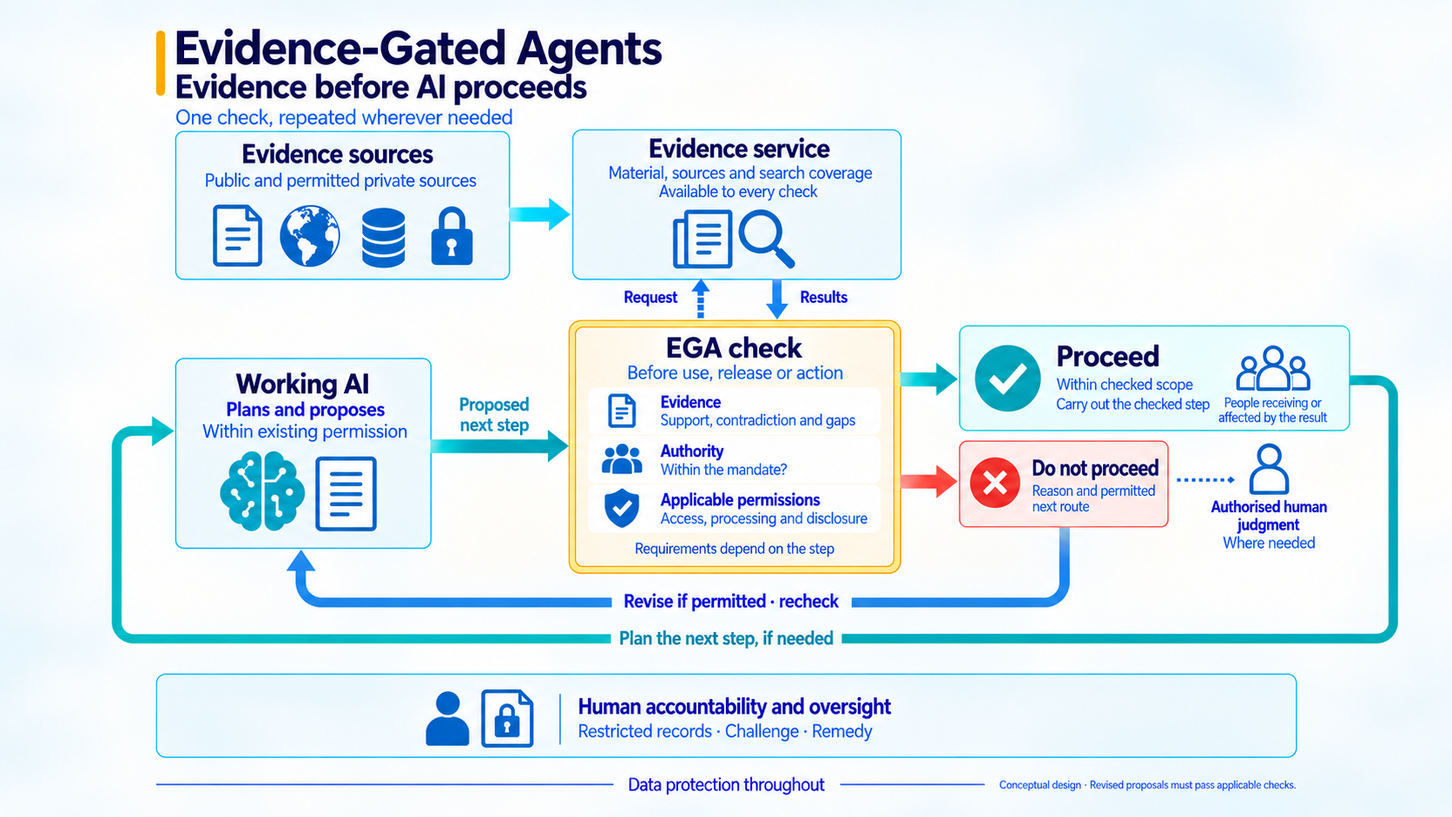
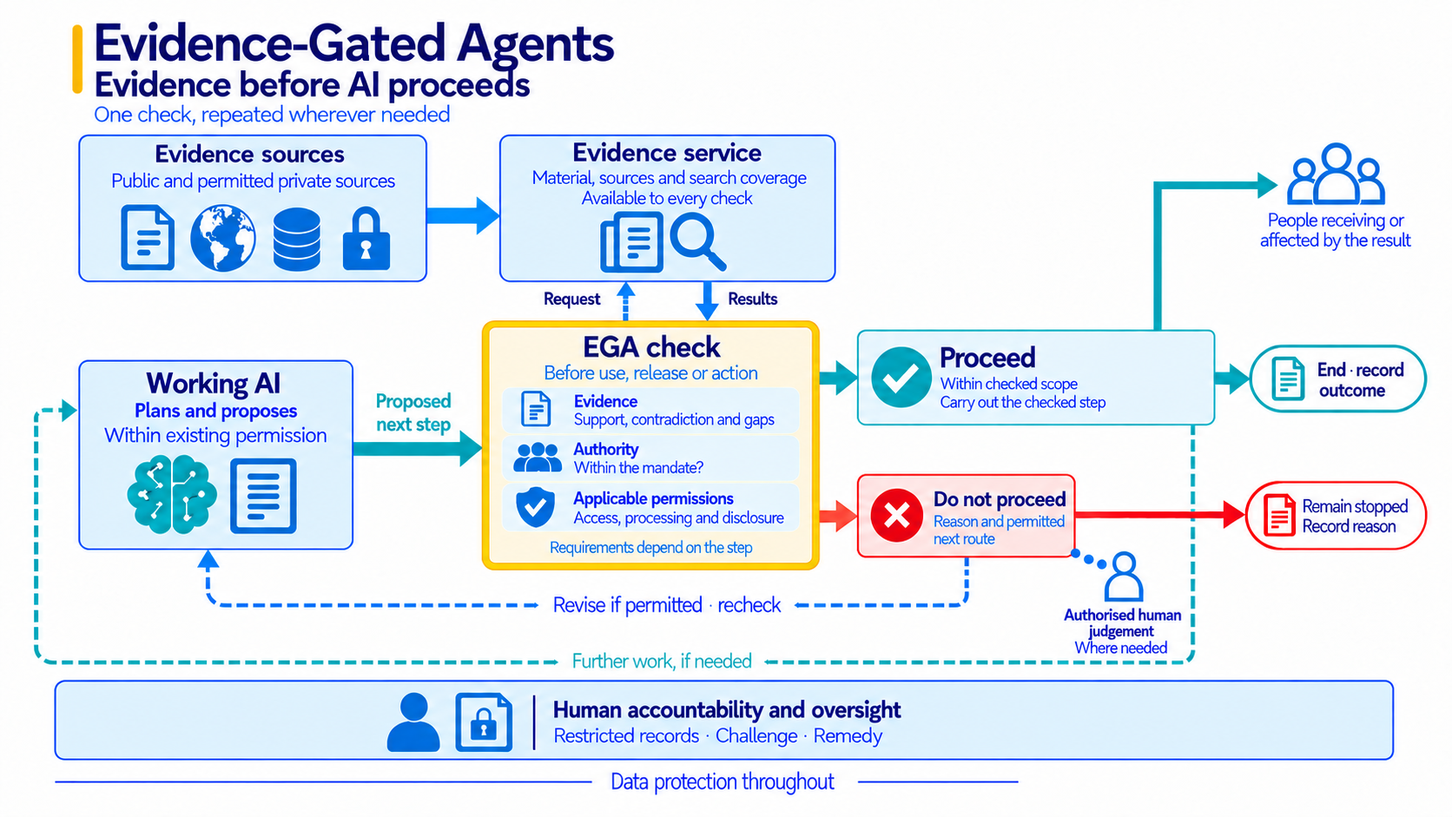
docs(ega): clarify exits and publish coordinated diagrams

Changed region(s): [[0.0311, 0.0308, 0.9952, 0.9862]]

diff --git a/docs/Assurance/Concepts/evidence-gated-agents.md b/docs/Assurance/Concepts/evidence-gated-agents.md
@@ -25,15 +25,15 @@ The selected prototype routes consequential decisions and instructions into evid
 
 **The cooperation opportunity:** bring a workflow, contribute engineering or evaluation expertise, or support the integration and its assessment. [See the milestone and how to contribute](#where-to-contribute).
 
-[![Full EGA design: Working AI prepares within existing permission, passes a before-use check, carries out permitted work and submits a step for a release or action check. Both checks can request evidence. After the checked step, a continuation loop returns to preparation for further work and applicable checks. Refusals lead to Do not proceed, conditional human judgment and permitted revision before renewed checks. People receiving or affected by results, five oversight roles, restricted records and system-wide data protection are shown.](evidence-gated-agents-release-workflow.png)](evidence-gated-agents-release-workflow.png)
+[![Full EGA design: Working AI prepares within existing permission; two example boundary checks can request evidence. Proceed leads to the checked step and an outcome record. Do not proceed leads to remaining stopped with a reason recorded. Separate dashed routes optionally return to Working AI for further work or permitted revision and rechecking. Human judgment is conditional; affected people, independent custody of decision records and five oversight roles remain visible.](evidence-gated-agents-release-workflow.png)](evidence-gated-agents-release-workflow.png)
 
-*Wider EGA design. The same EGA check pattern recurs for new inputs, processors, recipients and effects. Working AI plans and prepares within existing permission before the first illustrated check. Every check may request evidence, including evidence of permission and authority. Proceed and Do not proceed describe the gate decision. After the checked step, Working AI may plan further work within current permission; new protected transitions require their applicable checks. If permitted, Working AI revises and submits a new proposal for applicable checks; the rejected step stays withheld and closed attempts stay closed. Human judgement is requested where needed, within the person’s authority. [Lifecycle governance](../../Published/when-should-runtime-ai-governance-interrupt.md#the-when-has-two-clocks) surrounds this path. The first integration remains recommendation release only; integration, confidential-source handling and wider governance remain to be implemented and evaluated.*
+*Wider EGA design. The same EGA check pattern recurs for new inputs, processors, recipients and effects. Working AI plans and prepares within existing permission before the first illustrated check. Every check may request evidence, including evidence of permission and authority. Proceed and Do not proceed describe the gate decision. Solid exits end with an outcome record or a stopped step and its recorded reason. Dashed returns are optional: further work faces applicable checks, and permitted revision starts a new attempt. The rejected step stays withheld and closed attempts stay closed. Human judgement is requested where needed, within the person’s authority. [Lifecycle governance](../../Published/when-should-runtime-ai-governance-interrupt.md#the-when-has-two-clocks) surrounds this path. The first integration remains recommendation release only; integration, confidential-source handling and wider governance remain to be implemented and evaluated.*
 
 ## How the design works
 
-[![Simplified EGA design: Working AI proposes a step within existing permission. An EGA check can request evidence and applies evidence, authority and permission requirements. Proceed stays within checked scope; Do not proceed gives a reason and permitted route. A continuation loop returns to Working AI after the checked step to plan further work; a separate revision loop permits correction and renewed checks. Human judgment, people receiving or affected by results, restricted records and oversight are visible.](../../Published/evidence-gated-agents-before-we-rely.png)](../../Published/evidence-gated-agents-before-we-rely.png)
+[![Simplified EGA design: Working AI proposes a step; an EGA check applies evidence, authority and permission requirements. Proceed leads to the checked step and an outcome record; Do not proceed leads to remaining stopped with the reason recorded. Dashed returns optionally allow further work or permitted revision and rechecking. Crossing lines do not join. Human judgment, affected people and oversight remain visible.](../../Published/evidence-gated-agents-before-we-rely.png)](../../Published/evidence-gated-agents-before-we-rely.png)
 
-*Simplified view of the same recurring check. After the checked step, Working AI may plan the next step; the continuation loop does not authorise a retry when an outcome is uncertain. Requirements depend on the proposed step; permitted revision returns a changed proposal through applicable checks in a new attempt. The first integration targets consequential recommendation release, without executing resulting actions. Integration and confidential-source handling remain to be built.*
+*Simplified view of the same recurring check. Solid paths lead to an outcome record after the checked step, or to remaining stopped with the reason recorded. Dashed returns are optional: further work if needed, or permitted revision followed by applicable checks. Crossing lines do not join. Ending the workflow does not cancel required reconciliation of an uncertain examination, commitment or effect. The first integration targets consequential recommendation release, without executing resulting actions. Integration and confidential-source handling remain to be built.*
 
 The output being gated is a **claim, decision or action instruction**. Releasing an instruction makes it available to an authorised recipient; it does not authorise or execute the resulting action. The first prototype retains the consequential-decision/instruction trigger described above.
 
@@ -51,7 +51,7 @@ Routine checks run automatically within agreed limits. Human judgment is called 
 
 Data protection applies throughout the system, including every outgoing request, search result, released output and record view. Permission to consult a confidential record does not automatically permit sending it to an external AI service or revealing it in an answer. **Access, processing and disclosure are separate permissions.** The [privacy commitments](../Framework/charter-commitments.md) call for using only the information needed for the permitted purpose. Decision records also need limited content, access and retention; accountability must not become an unrestricted copy of confidential evidence.
 
-The [governance design](../../Published/when-vs-who-ai-governance.md) separates rulemaking, operation, record custody, independent review and remedy, so the operator does not control the whole chain. These are continuing responsibilities, not five approvals for every answer. A custodian preserves a sealed record without unilateral access; binding remedies require legal or contractual authority. Records support scrutiny, but do not themselves establish truth, legitimate authority or effective remedy.
+The [governance design](../../Published/when-vs-who-ai-governance.md) separates rulemaking, operation, record custody, independent review and remedy, so the operator does not control the whole chain. These are continuing responsibilities, not five approvals for every answer. The record keeper provides independent custody of decision records, preserving sealed records without unilateral access; binding remedies require legal or contractual authority. Records support scrutiny, but do not themselves establish truth, legitimate authority or effective remedy.
 
 ## The next development milestone
 
@@ -129,6 +129,7 @@ flowchart TD
  A -->|Assessment / deadline| C(["A · Continue to release / action checks"]):::link
  A -->|Acceptance unknown| U["R1 · Withhold; reconcile examination"]:::uncertain
 
+ S --> END(["Remain stopped<br/>Reason recorded"]):::stop
  S -.->|If correction permitted| REV(["REV · Permitted correction"]):::link
 
 classDef work fill:#edf4fc,stroke:#6d8fb8,color:#17344c,stroke-width:1.4px
@@ -160,8 +161,11 @@ flowchart TD
  C -->|Bound| E["Validate one-use binding<br/>Attempt exact release OR action"]:::work
  E -->|Outcome known| O["Record actual outcome<br/>Success, no effect or known failure"]:::result
  E -->|Outcome unknown| V["R3 · Reconcile effect"]:::uncertain
- O --> R(["Inspect · Challenge · Correct<br/>Review ongoing reliance"]):::result
+ O --> R["Retain record and review routes<br/>Inspect · Challenge · Correct"]:::result
+ R --> DONE(["End this workflow"]):::result
+ R -.->|Further work, if needed| NEXT(["Return to permitted preparation<br/>Applicable checks for each next step"]):::link
 
+ S --> END(["Remain stopped<br/>Reason recorded"]):::stop
  S -.->|If correction permitted| REV(["REV · Permitted correction"]):::link
 
 classDef work fill:#edf4fc,stroke:#6d8fb8,color:#17344c,stroke-width:1.4px
@@ -177,6 +181,8 @@ classDef link fill:#fff,stroke:#54768e,color:#24465e,stroke-width:2px
 
 
 **Do not proceed:** withhold the proposed step and record a scoped reason and permitted next route. Where correction is permitted, Working AI may receive a permitted explanation and prepare a corrected or narrower proposal within its current permission. The [REV correction route](#permitted-correction) returns the changed proposal through all applicable checks as a new attempt. An eligible held issue can receive authorised human judgment where useful. A closed attempt stays closed; neither revision, human judgment nor an analytical verdict bypasses required evidence or authority.
+
+**Finishing and continuing:** after the checked step, record its actual outcome. Then end this workflow or plan further work within current permission. Each new protected transition faces its applicable checks. Remaining stopped is also a valid endpoint; revision and human judgment are optional routes, not required next steps. Neither endpoint removes outstanding reconciliation or ongoing inspection, challenge and correction responsibilities.
 
 **Commitment and outcome are different.** Authority is freshly checked at the commitment boundary. The executor then validates the exact one-use binding; this is not a promise of another authority adjudication after commitment. Record confirmed no effect or known failure as such, preserving any commitment history. R1–R3 use the distinct recovery routes below.
 
@@ -216,7 +222,10 @@ flowchart TD
  O -->|Yes| D["Attempt ordinary delivery<br/>Minimal routing record"]:::work
  D -->|Outcome unknown| R["R3 · Reconcile delivery"]:::uncertain
  D -->|Outcome known| K["Record outcome as appropriate<br/>No consequential receipt"]:::result
+ K --> DONE(["End this workflow"]):::result
+ K -.->|Further work, if needed| NEXT(["New request within current permission<br/>Return to admission and routing"]):::link
 
+ S --> END(["Remain stopped<br/>Reason recorded"]):::stop
  S -.->|If correction permitted| REV(["REV · Permitted correction"]):::link
 
 classDef work fill:#edf4fc,stroke:#6d8fb8,color:#17344c,stroke-width:1.4px
@@ -251,6 +260,7 @@ flowchart TD
  G -->|No / error / incomplete at deadline| S
  G -->|Yes| C(["C · Continue to release control"]):::link
 
+ S --> END(["Remain stopped<br/>Reason recorded"]):::stop
  S -.->|If correction permitted| REV(["REV · Permitted correction"]):::link
 
 classDef work fill:#edf4fc,stroke:#6d8fb8,color:#17344c,stroke-width:1.4px
@@ -284,8 +294,11 @@ flowchart TD
  F -->|Bound| E["Validate one-use binding<br/>Attempt exact recipient-view release"]:::work
  E -->|Outcome known| O["Record release, no effect<br/>or known failure"]:::result
  E -->|Outcome unknown| V["R3 · Reconcile delivery"]:::uncertain
- O --> R(["Restricted receipt<br/>Inspect · Challenge · Correct"]):::result
+ O --> R["Restricted receipt<br/>Inspect · Challenge · Correct"]:::result
+ R --> DONE(["End this workflow"]):::result
+ R -.->|Further work, if needed| NEXT(["New request within current permission<br/>Return to admission and routing"]):::link
 
+ S --> END(["Remain stopped<br/>Reason recorded"]):::stop
  S -.->|If correction permitted| REV(["REV · Permitted correction"]):::link
 
 classDef work fill:#edf4fc,stroke:#6d8fb8,color:#17344c,stroke-width:1.4px
@@ -313,7 +326,7 @@ Release means making the checked response available to the intended recipient. I
 <details markdown="1" class="ega-design" id="permitted-correction">
 <summary>Permitted correction — REV: revise and check a new proposal</summary>
 
-REV is an optional route from a refusal whose status is known. The rejected step remains withheld. It does not authorise the correction work or any additional access, processing or disclosure.
+REV is an optional route from a refusal whose status is known. The workflow may instead end with the step withheld and the scoped reason recorded. REV does not authorise the correction work or any additional access, processing or disclosure.
 
 <div class="ega-flow" role="region" aria-label="Permitted correction and a new checked attempt" tabindex="0" markdown="1">
 

diff --git a/docs/Published/evidence-gated-agents-before-we-rely.md b/docs/Published/evidence-gated-agents-before-we-rely.md
@@ -17,7 +17,7 @@ https://robertschaub.github.io/our-ai-charter/Assurance/Concepts/evidence-gated-
 
 𝘍𝘶𝘭𝘭 𝘢𝘳𝘵𝘪𝘤𝘭𝘦 𝘣𝘦𝘭𝘰𝘸 ↓
 ***
-[![Simplified EGA design: Working AI proposes a step within existing permission. An EGA check can request evidence and applies evidence, authority and permission requirements. Proceed stays within checked scope; Do not proceed gives a reason and permitted route. A continuation loop returns to Working AI after the checked step to plan further work; a separate revision loop permits correction and renewed checks. Human judgment, people receiving or affected by results, restricted records and oversight are visible.](evidence-gated-agents-before-we-rely.png)](evidence-gated-agents-before-we-rely.png)
+[![Simplified EGA design: Working AI proposes a step; an EGA check applies evidence, authority and permission requirements. Proceed leads to the checked step and an outcome record; Do not proceed leads to remaining stopped with the reason recorded. Dashed returns optionally allow further work or permitted revision and rechecking. Crossing lines do not join. Human judgment, affected people and oversight remain visible.](evidence-gated-agents-before-we-rely.png)](evidence-gated-agents-before-we-rely.png)
 ***
 
 # Evidence-Gated Agents: Before We Rely on an AI Recommendation
@@ -36,13 +36,13 @@ Any EGA check can request evidence, including evidence of permission, authority 
 
 For the supplier example, missing evidence of the required guarantee means the recommendation does not proceed. A narrower recommendation needs a new check. A favourable analytical verdict alone cannot replace authority or permission to disclose the content.
 
-**Proceed** permits the checked step within its scope. After that step, Working AI may plan further work within current permission; each new protected transition faces its applicable checks. **Do not proceed** records the reason and next permitted route. Where permitted, Working AI receives feedback and prepares a corrected or narrower proposal within its current permission. The revised proposal must pass all applicable checks in a new attempt; the rejected step stays blocked and closed attempts stay closed. Uncertain work or delivery must be reconciled before any next step that could duplicate it. Human judgement is sought where an authorised person can resolve a specific issue and the stakes justify interruption. It cannot supply missing evidence or reopen a stopped attempt.
+**Proceed** permits the checked step within its scope. After that step, record the actual outcome. Then end the workflow or optionally plan further work within current permission; each new protected transition faces its applicable checks. **Do not proceed** withholds the step and records the reason. The workflow may end there; revision is an optional permitted route. Where permitted, Working AI receives feedback and prepares a corrected or narrower proposal within its current permission. The revised proposal must pass all applicable checks in a new attempt; the rejected step stays blocked and closed attempts stay closed. Ending the workflow does not cancel required reconciliation of an uncertain examination, commitment or delivery; reconcile before any next step that could duplicate work or effects. Human judgement is sought where an authorised person can resolve a specific issue and the stakes justify interruption. It cannot supply missing evidence or reopen a stopped attempt.
 
-The evidence-service interface can support public sources and specialised company/private sources. Access, processing and disclosure are separate permissions. Data protection applies throughout the system, including outgoing requests, released content and records. Decision-record access is restricted; separate oversight responsibilities support inspection, challenge and correction.
+The evidence-service interface can support public sources and specialised company/private sources. Access, processing and disclosure are separate permissions. Data protection applies throughout the system, including outgoing requests, released content and records. The record keeper provides independent custody of decision records, with restricted access. Separate oversight responsibilities support inspection, challenge and correction.
 
-[![Full EGA design: Working AI prepares within existing permission, passes a before-use check, carries out permitted work and submits a step for a release or action check. Both checks can request evidence. After the checked step, a continuation loop returns to preparation for further work and applicable checks. Refusals lead to Do not proceed, conditional human judgment and permitted revision before renewed checks. People receiving or affected by results, five oversight roles, restricted records and system-wide data protection are shown.](../Assurance/Concepts/evidence-gated-agents-release-workflow.png)](../Assurance/Concepts/evidence-gated-agents-release-workflow.png)
+[![Full EGA design: Working AI prepares within existing permission; two example boundary checks can request evidence. Proceed leads to the checked step and an outcome record. Do not proceed leads to remaining stopped with a reason recorded. Separate dashed routes optionally return to Working AI for further work or permitted revision and rechecking. Human judgment is conditional; affected people, independent custody of decision records and five oversight roles remain visible.](../Assurance/Concepts/evidence-gated-agents-release-workflow.png)](../Assurance/Concepts/evidence-gated-agents-release-workflow.png)
 
-*The full design shows the same EGA check at two example boundaries. After the checked step, Working AI may plan the next step within current permission; new protected transitions require their applicable checks. If revision is permitted, Working AI prepares a changed proposal that must undergo the applicable checks in a new attempt. People receiving or affected by the result remain visible alongside human judgment and oversight. The first integration remains recommendation release only; integration and confidential-source handling remain to be built.*
+*The full design shows the same EGA check at two example boundaries. Solid paths end with an outcome record after the checked step, or with the step stopped and the reason recorded. Dashed returns show optional further work or permitted revision; new or revised proposals face applicable checks. Crossing lines do not join. People receiving or affected by the result remain visible alongside human judgment and oversight. The first integration remains recommendation release only; integration and confidential-source handling remain to be built.*
 
 ## Two foundations, one concrete milestone
 

diff --git a/README.md b/README.md
@@ -65,7 +65,7 @@ Start with the [Trust & Accountability overview](docs/Assurance/index.md): draft
 - **[Grounding-Faithfulness & Contestability](docs/Assurance/Protocol/grounding-faithfulness-and-contestability.md)** — *DRAFT v0.3*. First evaluation module; start with the [method summary](docs/Assurance/Protocol/one-pager.md).
 - **[Future certification: independence and oversight](docs/Assurance/Framework/certification-model.md)** — *DRAFT*. Future separation-of-powers assurance model, including the boundary between system/release assurance and human competence; not an existing scheme or personnel credential.
 - **[From evaluation methods to institutional requirements](docs/Assurance/Concepts/evaluation-to-institutional-requirements.md)** — *DRAFT*. One-page crosswalk from scoped evaluation methods to institutional duties, evidence, remediation, and claim limits.
-- **[Evidence-Gated Agents — project overview](docs/Assurance/Concepts/evidence-gated-agents.md)** — *Design and development direction*. Current foundations, the next integration and evaluation milestone, and cooperation opportunities, with recurring EGA checks, evidence for authority and output support, privacy and oversight boundaries, and expandable target/prototype flows with permitted correction, distinct recovery routes and fictional receipt examples.
+- **[Evidence-Gated Agents — project overview](docs/Assurance/Concepts/evidence-gated-agents.md)** — *Design and development direction*. Current foundations, the next integration and evaluation milestone, and cooperation opportunities, with recurring EGA checks, evidence for authority and output support, privacy and oversight boundaries, and expandable target/prototype flows with explicit exits, optional continuation and permitted correction, distinct recovery routes and fictional receipt examples.
 - **[Evidence requirements: what EGA needs to demonstrate](docs/Assurance/Concepts/evidence-requirements-research.md)** — *DRAFT, non-normative*. Research question, prototype boundaries, comparison success rules and public evaluation commitments.
 - **[Charter structure and views](docs/Assurance/Concepts/charter-structure-and-views.md)** · **[User-workflow governance](docs/Assurance/Concepts/user-workflow-governance.md)** · **[Assurance cases](docs/Assurance/Concepts/assurance-cases.md)** · **[Capabilities & Assurance Interface](docs/Assurance/Concepts/charter-structure-and-views.md#capabilities-and-assurance-interface)** — *DRAFT*. Concept notes that map obligations, duties, runtime, reader-facing lenses, the obligation→duty assurance-case prototypes, and the demand-side "check" surface (now part of Charter structure and views).
 - **[Ambient and agentic AI controls](docs/Assurance/Concepts/ambient-agentic-ai-control.md)** · **[Split custody for action records](docs/Assurance/Concepts/split-custody-per-action-records.md)** · **[Representation error and correction](docs/Assurance/Concepts/representation-error-and-correction-routes.md)** — *DRAFT / CONCEPT NOTES*. Proposed control, record-custody, and correction-route designs; none is an operating scheme.

diff --git a/docs/Assurance/Concepts/user-workflow-governance.md b/docs/Assurance/Concepts/user-workflow-governance.md
@@ -45,7 +45,7 @@ Loops and chains re-enter **Submit** and **Verify**: each model/tool hop can add
 
 **Authority needs the same treatment as evidence.** *Authorize* establishes what the user and system may do, but the authority at the root of that grant has a basis too — a role, an instrument, a decision — and it should be recorded and reviewable rather than assumed from the fact that a grant exists. A signed permission proves someone granted it, never that they held what they granted.
 
-EGA presents these as instances of one repeated check: may this proposed transition proceed under its applicable requirements? Any check may obtain permitted evidence, including evidence establishing authority or permission. Trusted rules select the requirements; the acting AI cannot select a bypass. The overview branches **Proceed / Do not proceed** express the decision for that step, without replacing the operational gates, technical verdicts, attempt states or recovery obligations below. Where permitted, Working AI receives permitted feedback and revises within its current permission; the changed proposal follows the [correction route](evidence-gated-agents.md#permitted-correction) through applicable checks in a new attempt. The rejected step remains blocked; uncertainty still requires reconciliation. “Human judgement where needed” is a conditional route for a specific unresolved issue, within the person's authority; it is not required for every refusal and cannot substitute for missing evidence or authority, or reopen a terminally closed attempt.
+EGA presents these as instances of one repeated check: may this proposed transition proceed under its applicable requirements? Any check may obtain permitted evidence, including evidence establishing authority or permission. Trusted rules select the requirements; the acting AI cannot select a bypass. The overview branches **Proceed / Do not proceed** express the decision for that step, without replacing the operational gates, technical verdicts, attempt states or recovery obligations below. After the checked step, record the outcome. Then end the workflow or optionally prepare further work within current permission and applicable checks. A refusal may end with the step withheld and the reason recorded; it need not lead to revision or human judgment. Where permitted, Working AI receives permitted feedback and revises within its current permission; the changed proposal follows the [correction route](evidence-gated-agents.md#permitted-correction) through applicable checks in a new attempt. The rejected step remains blocked; uncertainty still requires reconciliation. “Human judgement where needed” is a conditional route for a specific unresolved issue, within the person's authority; it is not required for every refusal and cannot substitute for missing evidence or authority, or reopen a terminally closed attempt.
 
 ## Escalation triggers
 

diff --git a/docs/Assurance/Concepts/evidence-requirements-research.md b/docs/Assurance/Concepts/evidence-requirements-research.md
@@ -15,7 +15,7 @@ The proposed workflow identifies material claims, assumptions and dependencies; 
 
 Search may reveal a missing premise or show that a requirement is ill-posed. That discovery returns to requirement proposal and review before further evidence assessment or release. It cannot lower the evidence standard to fit what was found: any relaxed or removed requirement must be justified against the frozen policy, reviewed and recorded.
 
-A separate deterministic gate then applies the recorded rule to the requirements, review outcomes and evidence assessment: permit or withhold release. Withholding records the reason and permitted next route, which may include Working AI revising the proposal within its existing permission. A revised proposal starts a new attempt through all applicable checks. The gate makes no semantic judgment of its own, and a model verdict alone cannot authorize release. Agreement between reviewers is not proof that their requirements or conclusions are adequate.
+A separate deterministic gate then applies the recorded rule to the requirements, review outcomes and evidence assessment: permit or withhold release. Withholding records the reason; the workflow may end with the step stopped, or follow an optional permitted route such as Working AI revising the proposal within its existing permission. A revised proposal starts a new attempt through all applicable checks. The gate makes no semantic judgment of its own, and a model verdict alone cannot authorize release. Agreement between reviewers is not proof that their requirements or conclusions are adequate.
 
 ## What goes into a check—and what comes out?
 

diff --git a/CHANGELOG.md b/CHANGELOG.md
@@ -4,6 +4,8 @@ Notable changes to the charter and its drafts. Dates are ISO (YYYY-MM-DD).
 
 ## 2026-10-08
 
+- Added explicit end and remain-stopped exits to the coordinated EGA illustrations and detailed flows. Aligned captions, alternative text, workflow and article wording with optional continuation or permitted revision, retained reconciliation duties, and clarified independent custody of decision records.
+
 - Unified the EGA illustrations into full and simplified views with matching gold frames, separate next-step and permitted-revision loops and visible human involvement and affected people. Updated page captions and image descriptions; retained earlier image URLs for compatibility.
 
 - Clarified permitted Working AI revision after an EGA refusal across illustrations, phased flows and explanatory text. Changed proposals return through applicable checks in a new attempt; closed attempts and uncertain-outcome reconciliation retain their existing rules.
